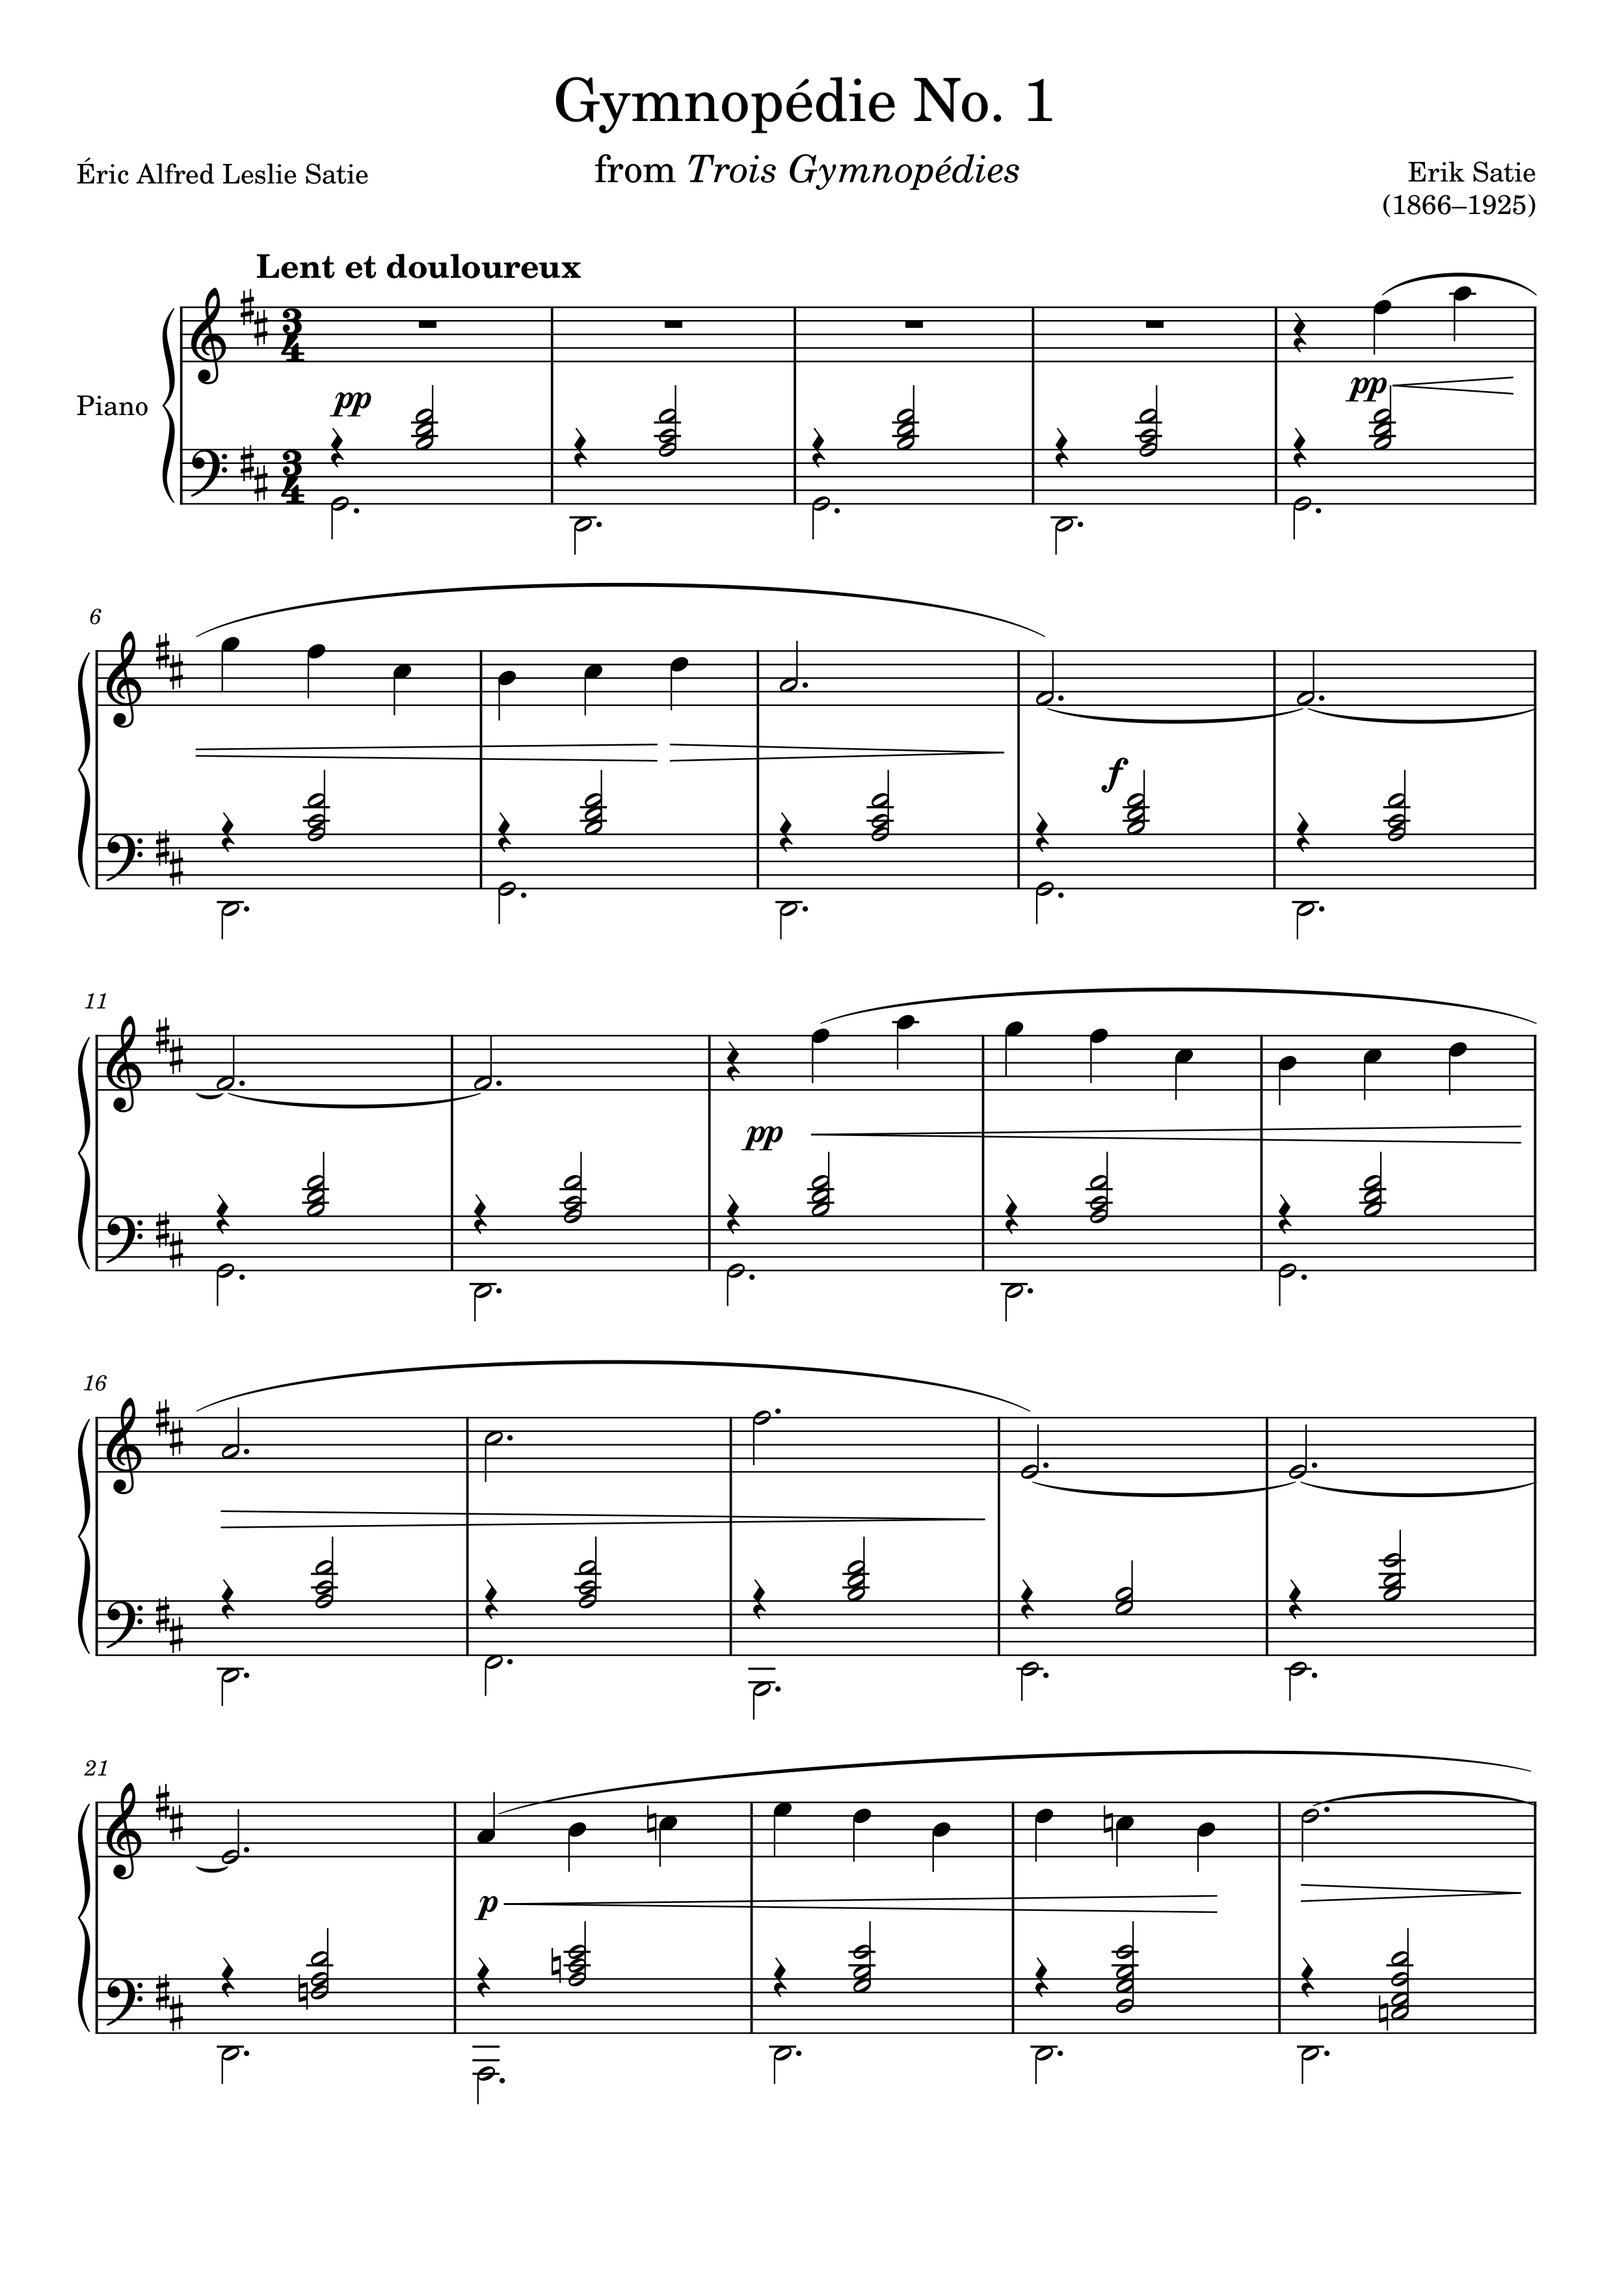
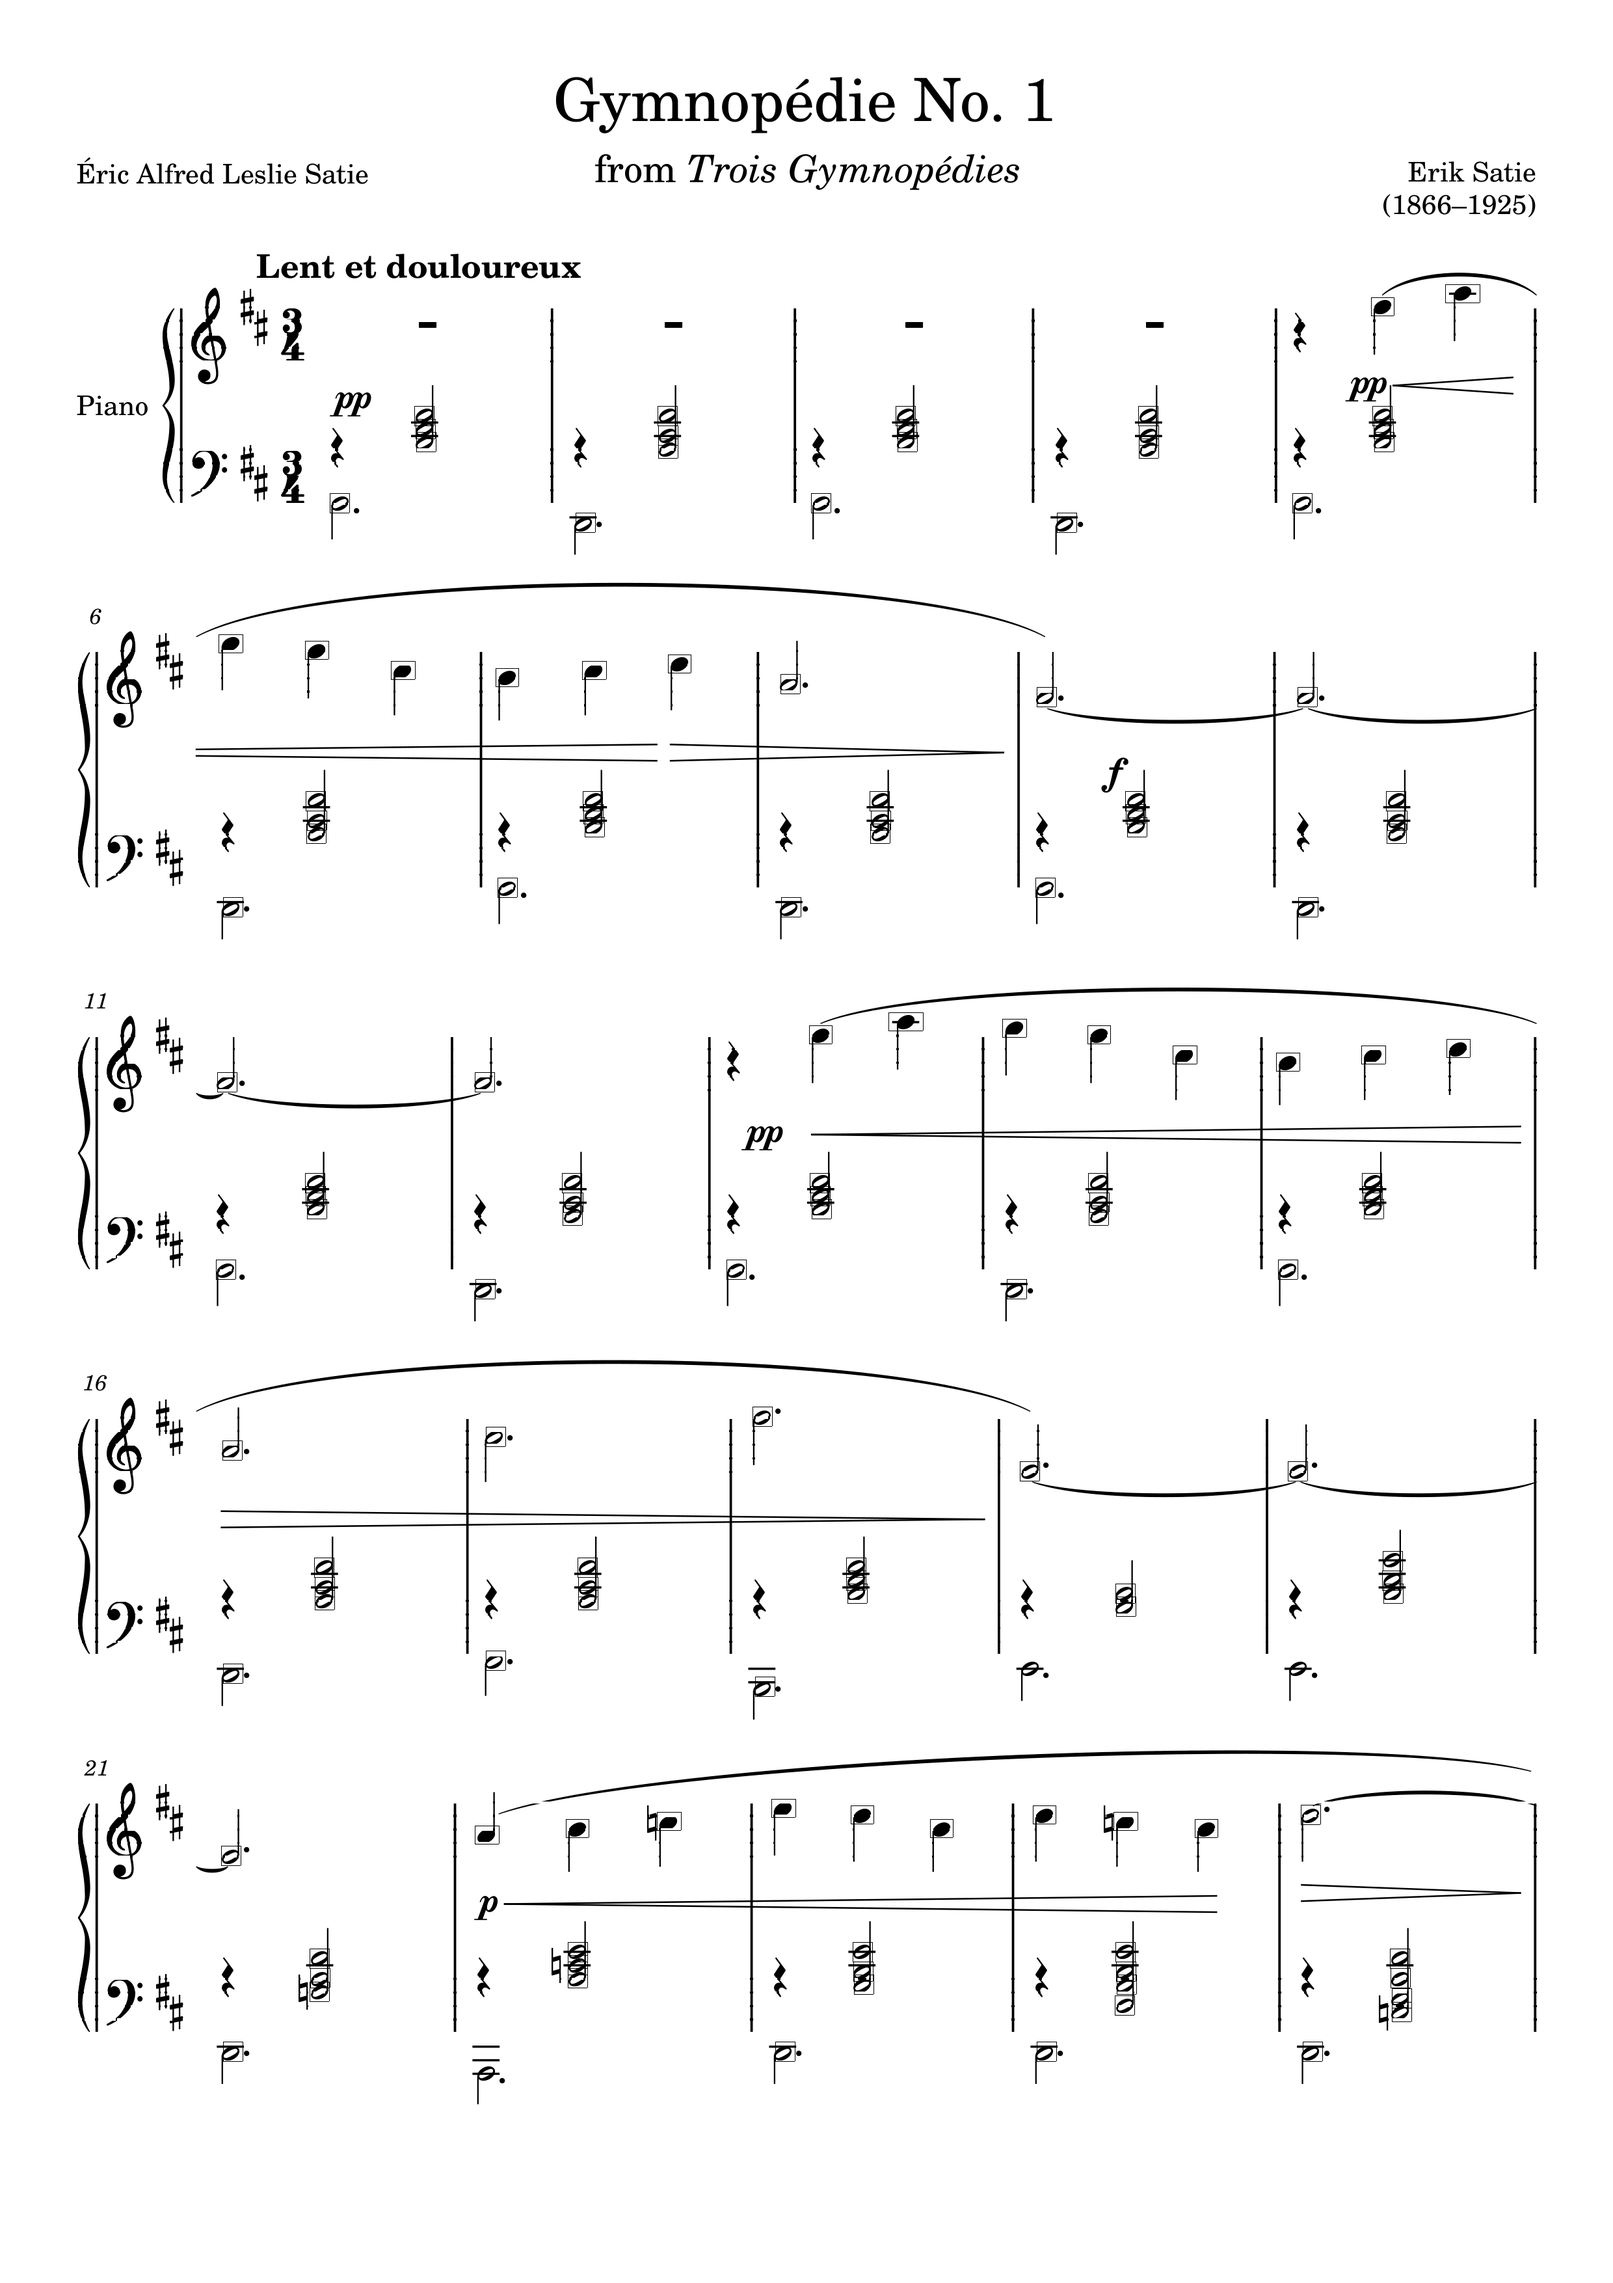
backtodrawingboard

diff --git a/main.py b/main.py
@@ -103,9 +103,6 @@ def extract_highlighted_lines_and_columns_from_image(image_path, threshold=2/3):
     
     invisible_lines = []
 
-    #need a way to track this as just the lines not the double lines
-    all_current_loop_ys = []
-
     #Space it in middle for line identification
 
     difference_between_lines_for_line_drawing = lines[1][1] - lines[0][1] 
@@ -140,8 +137,7 @@ def extract_highlighted_lines_and_columns_from_image(image_path, threshold=2/3):
             else:
                 stopping_point = (row[1] + lines[row_index + 1][1]) / 2
             while current_y <= stopping_point:
-                group.extend([current_y - half_line_height, current_y])
-                all_current_loop_ys.append(current_y)
+                group.append(current_y)
                 current_y += round(temp_difference / 2)
             invisible_lines.append(group)
             group = []
@@ -157,16 +153,14 @@ def extract_highlighted_lines_and_columns_from_image(image_path, threshold=2/3):
             else:
                 stopping_point = (row[1] + lines[row_index - 1][1]) / 2
             while current_y >= stopping_point:
-                all_current_loop_ys.append(current_y)
-                group.extend([current_y - half_line_height, current_y])
+                group.append(current_y)
                 current_y -= round(temp_difference / 2)
             for add_row_index in range(4): 
                 future_line = lines[row_index + add_row_index + 1][1] 
-                group.extend([int((future_line + lines[row_index + add_row_index][1]) / 2) - half_line_height, int((future_line + lines[row_index + add_row_index][1]) / 2)])
-                all_current_loop_ys.append(int((future_line + lines[row_index + add_row_index][1]) / 2))
+                group.append(int((future_line + lines[row_index + add_row_index][1]) / 2))
                 if add_row_index != 3:
-                    group.extend([future_line - half_line_height, future_line])
-                    all_current_loop_ys.append(future_line)
+                    group.append(future_line)
+
     for group in invisible_lines:
         last_row_notes = []
         for current_loop_y in group:
@@ -365,83 +359,6 @@ def extract_highlighted_lines_and_columns_from_image(image_path, threshold=2/3):
                 else:
                     black_count = 0
             last_row_notes = temp_notes
-
-
-
-
-    #on the blacks and the whites we have to do the check
-    #on the dashed whites we should create another array bc there would be no check
-    #the check will include going up and down and seeing which is most even on the up and down for above below
-    #we should have some way to store memory between current loop y's on every iteration
-    #this way we save processing and can compare immediately
-    #we have to figure out if it was saving the white notes with dash above and do this soon
-    #this is a vital step
-    #we also have to implement the next few points to handle cases such as testinput.pdf
-            
-    #1. implement a smart efficient overlap checker
-    #2. keep adding points to the dashed
-            
-
-
-    #we will not need mutiple lines for sharps but maybe for flat detection
-    #we will not need an overlap check on the dashed notes
-    
-
-    #THE OVERLAP CHECK AS WE GO THROUGH IS OUR NEXT BIG STEP!!!! THIS COULD TAKE TWO WEEKS BUT WE WILL HAVE ALL NOTES AT THE END
-    #WE DON'T RLY NEED AN OVERLAP CHECK WE JUST NEED TO GO THRU EVERYTHING ORGANIZE IT EVERY CURRENT_LOOP_Y AND KEEP THE GROUPS
-    #THEN WE SEE WHICH ONES ARE CLOSEST TO CURRENT_LOOP_Y AND WITHIN A RANGE OF DIFFERENCEBETWEENLINES/2 OF EACH OTHER
-            
-
-
-    #let's start by going thru the black notes
-    #go thru each row and compare if 1/2 average not length of just if within 1/2 difbetweenlineheightfordrawing within
-    #
-            
-
-    #put back ltr
-            
-    #we could make it a dictionary 
-            
-    positions = []
-    past_positions = []
-    last_looked_past_index = -1
-    past_y = black_notes[0][0][1]
-    last_index_y = 0
-    for index, black_note in enumerate(black_notes):
-        x = black_note[0][0]
-        y = black_note[0][1]
-        #we can make it start on the point it left on for past_x interms of how far up we compare the x 
-        if last_looked_past_index != -1:
-            for i in range(last_looked_past_index, past_positions[-1][2]):
-                past_x = past_positions[i][0]
-                past_y = past_positions[i][1]
-                if abs(x - past_x) < difference_between_lines_for_line_drawing / 2:
-                    #calculate which one is closer to a currentloop y
-                    #such as count the index in allcurrentloopys
-                    temp_y = all_current_loop_ys[last_index_y]
-                    while temp_y < past_y:
-                        new_down_y = all_current_loop_ys[last_index_y + 1]
-                        temp_y = all_current_loop_ys[last_index_y]
-
-                        difference_to_past_down = past_y - temp_y
-                        difference_to_past_up = new_down_y - past_y
-                        difference_to_y_down = y - temp_y
-                        difference_to_y_up = new_down_y - y
-                        #see which is smallest
-                        #then that is the one we keep everything else we remove
-                        #see which one is either one closer to and only add once its gaurenteed not at end
-                        last_index_y += 1
-                if temp_x > x:
-                    break
-        if y != past_y:
-            past_positions = positions
-            last_looked_past_index = past_positions[0][2]
-            positions = 0
-        positions.append([x, y, index])
-        past_y = y 
-
-
-        
 
     for black_note in black_notes:
         top_left = black_note[0]
